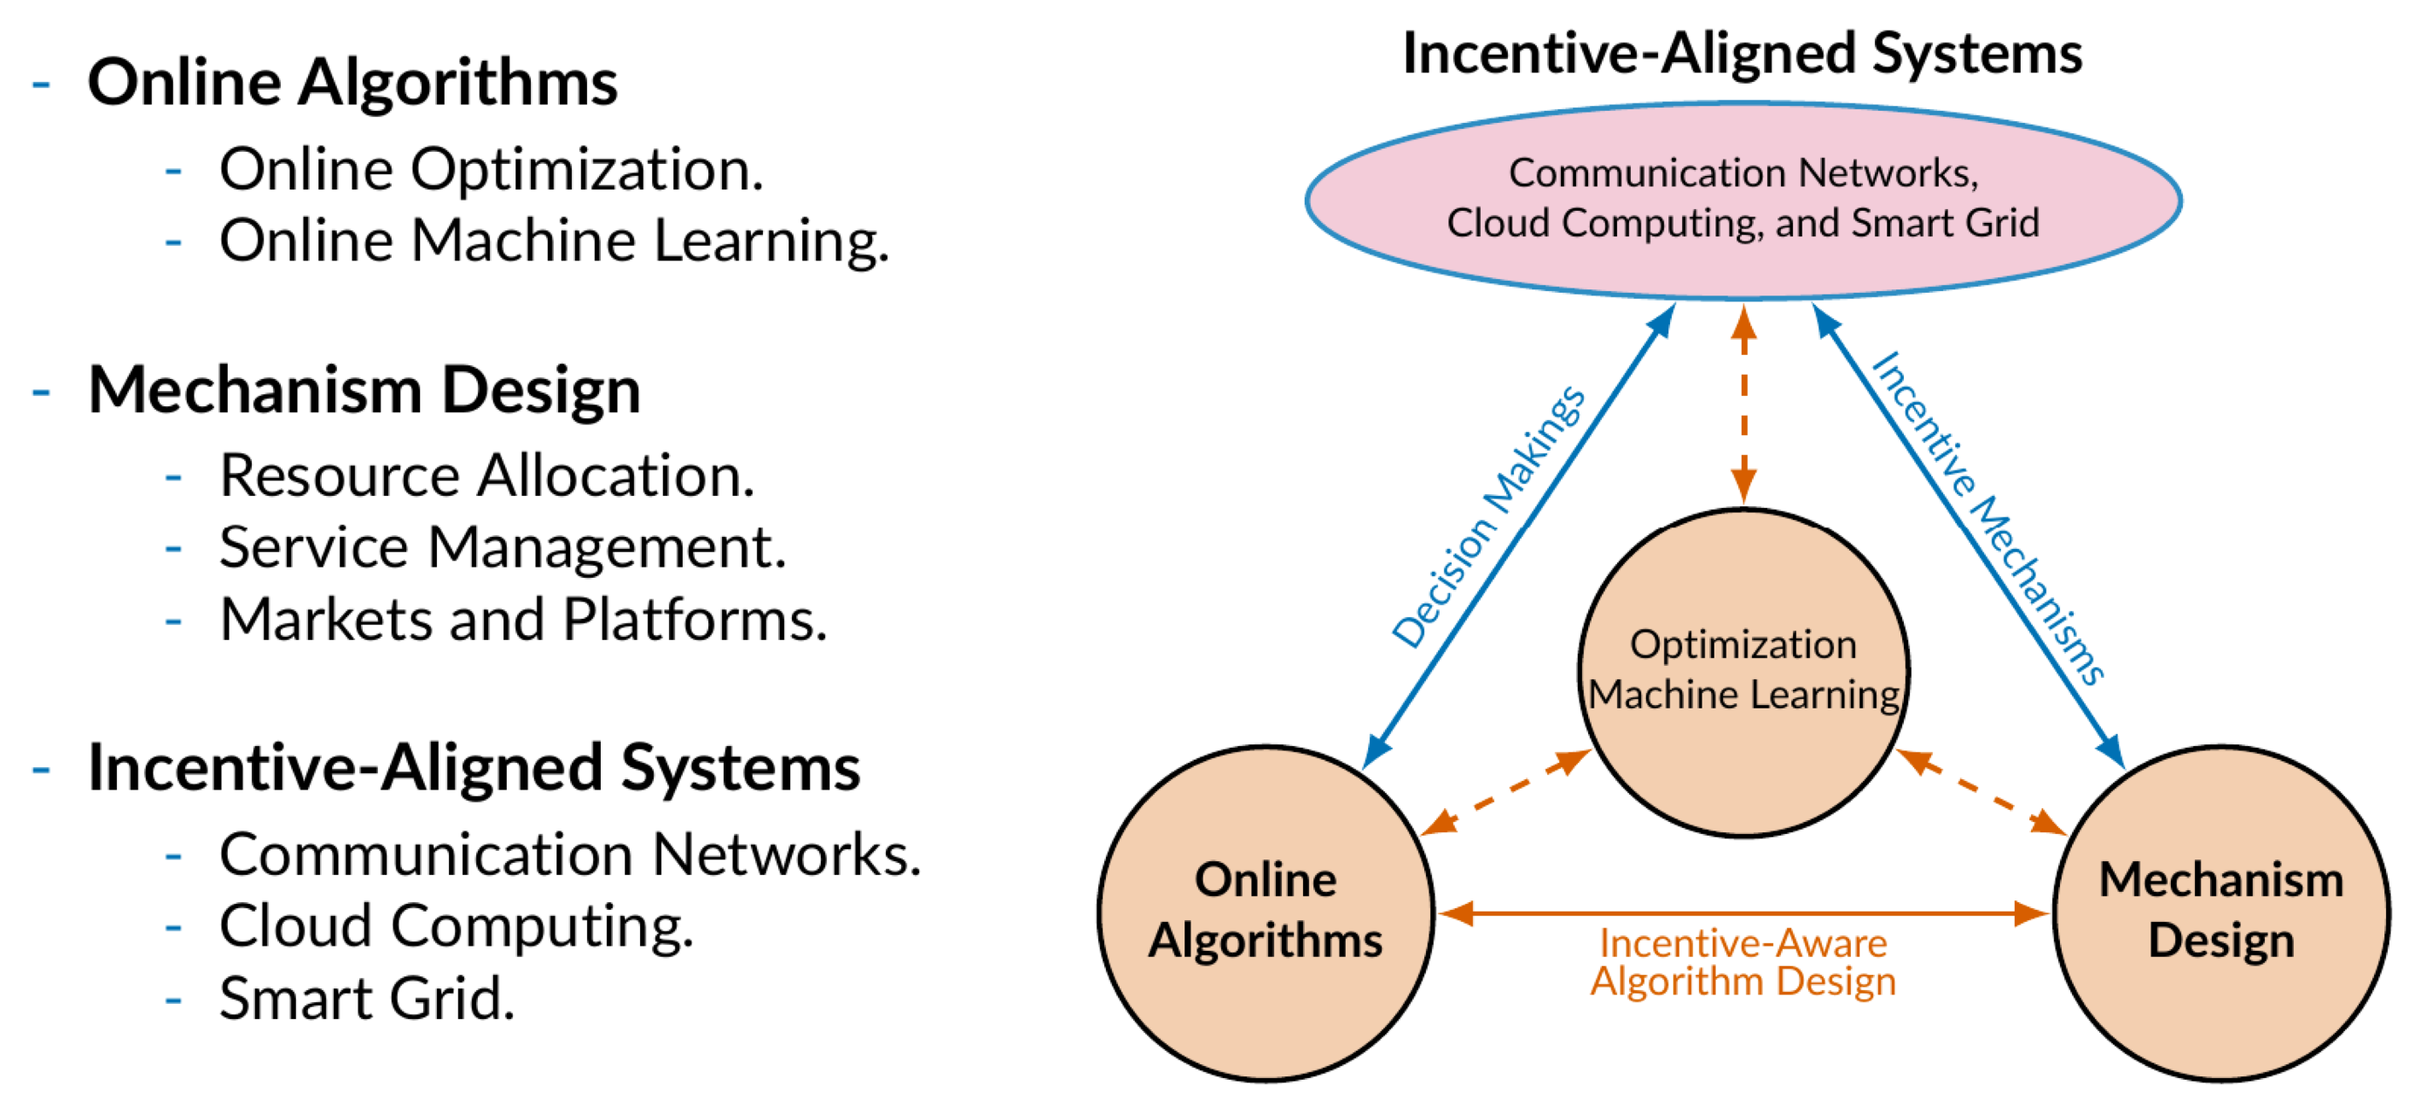
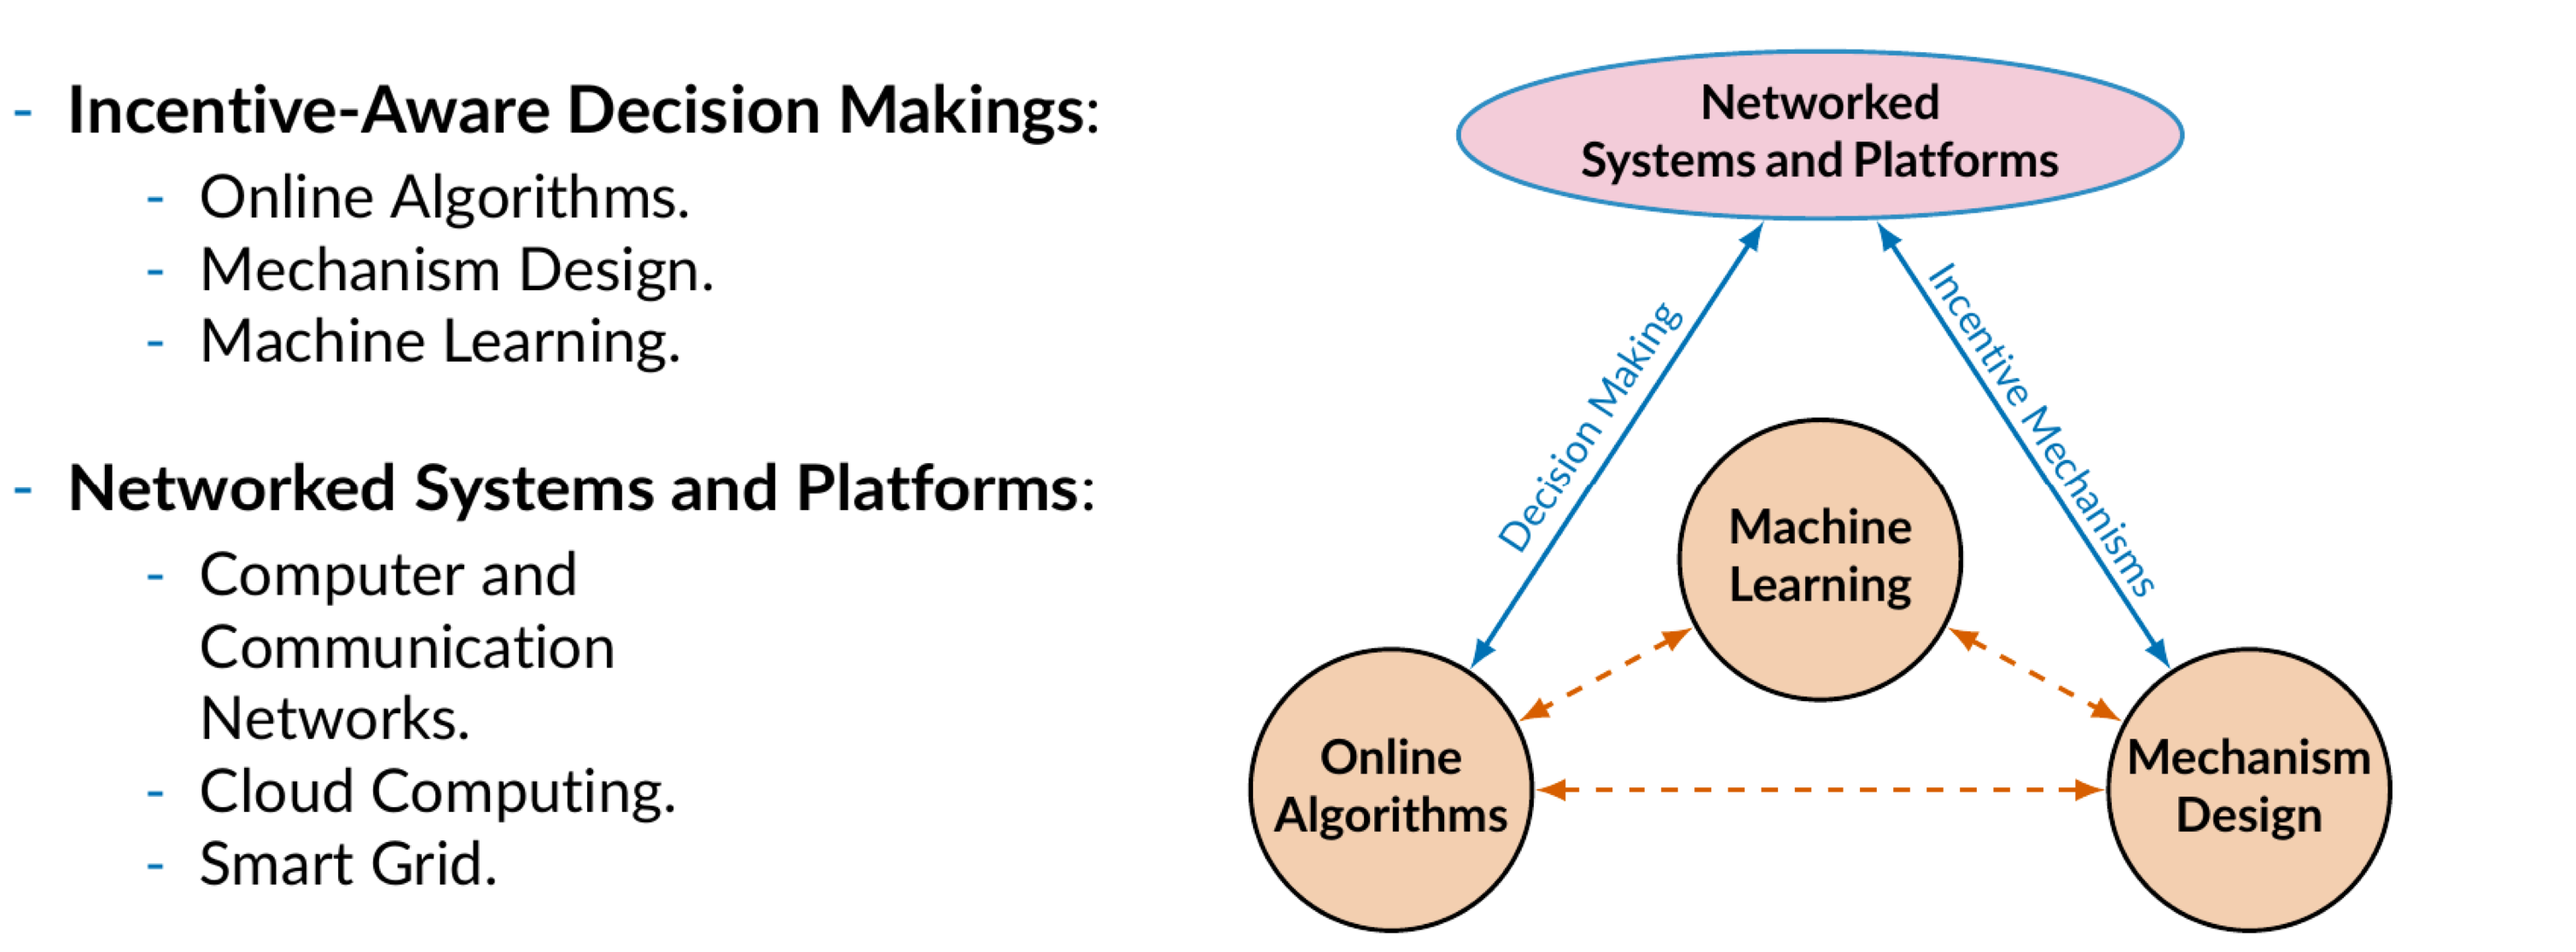
20191215

Changed region(s): [[0.4343, 0.0305, 0.9926, 1.0], [0.0, 0.0305, 0.4343, 0.9444]]

diff --git a/content/research/incentives.md b/content/research/incentives.md
@@ -1,26 +1,52 @@
 +++
-# A Demo section created with the Blank widget.
-# Any elements can be added in the body: https://sourcethemes.com/academic/docs/writing-markdown-latex/
-# Add more sections by duplicating this file and customizing to your requirements.
+# A Recent Publications section created with the Pages widget.
+# This section displays recent blog posts from `content/publication/`.
 
-widget = "blank"  # See https://sourcethemes.com/academic/docs/page-builder/
+widget = "pages"  # See https://sourcethemes.com/academic/docs/page-builder/
 headless = true  # This file represents a page section.
-active = false  # Activate this widget? true/false
-weight = 35  # Order that this section will appear.
+active = true  # Activate this widget? true/false
+weight = 10  # Order that this section will appear.
 
-title = "Incentives"
-subtitle = "Mechanism Design for Resource Allocation and Pricing"
+title = "Incentive-Aware Decision Makings"
+subtitle = "Online Algorithms, Mechanism Design and Machine Learning"
 
+
+
+[content]
+  # Page type to display. E.g. post, talk, or publication.
+  page_type = "publication"
+  
+  # Choose how much pages you would like to display (0 = all pages)
+  count = 3
+  
+  # Choose how many pages you would like to offset by
+  offset = 0
+
+  # Page order. Descending (desc) or ascending (asc) date.
+  order = "desc"
+
+  # Filter posts by a taxonomy term.
+  [content.filters]
+    tag = "Incentives"
+    category = ""
+    publication_type = ""
+    exclude_featured = false
+  
+  
 [design]
-  # Choose how many columns the section has. Valid values: 1 or 2.
-  columns = "2"
-
+  # Toggle between the various page layout types.
+  #   1 = List
+  #   2 = Compact
+  #   3 = Card
+  #   4 = Citation (publication only)
+  view = 4
+  
 [design.background]
   # Apply a background color, gradient, or image.
   #   Uncomment (by removing `#`) an option to apply it.
   #   Choose a light or dark text color by setting `text_color_light`.
   #   Any HTML color name or Hex value is valid.
-
+    
   # Background color.
   # color = "navy"
   
@@ -29,28 +55,31 @@ subtitle = "Mechanism Design for Resource Allocation and Pricing"
   # gradient_end = "SkyBlue"
   
   # Background image.
-  # image = "headers/bubbles-wide.jpg"  # Name of image in `static/img/`.
+  # image = "background.jpg"  # Name of image in `static/img/`.
   # image_darken = 0.6  # Darken the image? Range 0-1 where 0 is transparent and 1 is opaque.
-  # image_size = "cover"  #  Options are `cover` (default), `contain`, or `actual` size.
-  # image_position = "center"  # Options include `left`, `center` (default), or `right`.
-  # image_parallax = true  # Use a fun parallax-like fixed background effect? true/false
 
   # Text color (true=light or false=dark).
-  # text_color_light = true
-
-[design.spacing]
-  # Customize the section spacing. Order is top, right, bottom, left.
-  padding = ["20px", "0", "20px", "0"]
-
+  # text_color_light = true  
+  
 [advanced]
  # Custom CSS. 
  css_style = ""
  
  # CSS class.
  css_class = ""
+ 
+# {{% alert note %}} 
+# Quickly discover relevant content by [filtering publications]({{< ref "/publication/_index.md" >}}).
+# {{% /alert %}}
 +++
 
-My research features the design and operation of communication networks in the face of dynamics, ranging from changing and possibly strategic user behaviors to network connectivity and resource availability. To achieve this, my research features interdisciplinarity and uses tools from mathematics and economics such as online algorithms, algorithmic game theory/mechanism design, and optimization. 
 
+I study incentive-aware decision making based on online algorithms, mechanism design and machine learning. In particular, I focus on designing sequential decision making algorithms when there is no complete information of future. Moreover, such sequential decision making problems can be substaintially challenged if there exist multiple agents with self-interested behaviors. 
 
-**Recent Publications**: [Online Combinatorial Auctions]({{< ref "/publication/journal-article/online_combinatorial_auction_2020/index.md" >}}).
+- **Online Mechanism Design**. Mechanism design is concerned about designing a protocol that can implement a game. Online mechanism design sits at the intersection between mechanism design and online algorithm, where decisions must be made in an online fashion with incomplete future information.
+
+- **Multi-Agent Reinforcement Learning**. Reinforcement learning is concerned about making sequential decisions under uncertainty based on the theory of Markov Decision Process. For 
+
+{{< figure library="true" src="competitive_ratio.png" title="Achieveable regions of competitive ratios of the proposed online algorithm under three cases" lightbox="true" >}}
+
+**Recent Publications**:

diff --git a/content/research/slider.md b/content/research/slider.md
@@ -15,16 +15,6 @@ height = ""
 
 # Slides.
 # Duplicate an `[[item]]` block to add more slides.
-[[item]]
-  title = "**Research Summary**"
-  content = "Incentive-Aligned Systems in Networked Environments"
-  align = "center"  # Choose `center`, `left`, or `right`.
-
-  # Overlay a color or image (optional).
-  # Deactivate an option by commenting out the line, prefixing it with `#`.
-  overlay_color = "#666"  # An HTML color value.
-  overlay_img = "networks.jpg"  # Image path relative to your `static/img/` folder.
-  overlay_filter = 0.6  # Darken the image. Value in range 0-1.
 
   # Call to action button (optional).
   #   Activate the button by specifying a URL and button label below.
@@ -43,22 +33,33 @@ height = ""
 #  overlay_img = "markets.jpg"  # Image path relative to your `static/img/` folder.
 #  overlay_filter = 0.6  # Darken the image. Value in range 0-1.
 
-[[item]]
-  title = "**Online Algorithms**"
-  content = "Online Optimization and Online Machine Learning"
-  align = "center"
+# [[item]]
+#  title = "**Online Algorithms**"
+#  content = "Online Optimization and Online Machine Learning"
+#  align = "center"
 
-  overlay_color = "#555"  # An HTML color value.
-  overlay_img = "algorithms.jpg"  # Image path relative to your `static/img/` folder.
-  overlay_filter = 0.8  # Darken the image. Value in range 0-1.
+#  overlay_color = "#555"  # An HTML color value.
+#  overlay_img = "algorithms.jpg"  # Image path relative to your `static/img/` folder.
+#  overlay_filter = 0.8  # Darken the image. Value in range 0-1.
 
 [[item]]
-  title = "**Mechansim Design**"
-  content = "Markets and Platforms for Resource Allocation and Pricing"
+  title = "**Incentive-Aware Decision Makings**"
+  # content = "Online Algorithms, Mechanism Design and Machine Learning"
   align = "center"
 
   overlay_color = "#333"  # An HTML color value.
-  overlay_img = "markets.jpg"  # Image path relative to your `static/img/` folder.
-  overlay_filter = 0.6  # Darken the image. Value in range 0-1.
+  overlay_img = "algorithms.jpg"  # Image path relative to your `static/img/` folder.
+  overlay_filter = 0.8 # Darken the image. Value in range 0-1.
+
+  [[item]]
+  title = "**Networked Systems and Platforms**"
+  # content = "Communication Networks, Cloud Computing and Smart Grid"
+  align = "center"  # Choose `center`, `left`, or `right`.
+
+  # Overlay a color or image (optional).
+  # Deactivate an option by commenting out the line, prefixing it with `#`.
+  overlay_color = "#666"  # An HTML color value.
+  overlay_img = "networks.jpg"  # Image path relative to your `static/img/` folder.
+  overlay_filter = 0.7  # Darken the image. Value in range 0-1.
 
 +++

diff --git a/content/research/applications.md b/content/research/applications.md
@@ -5,10 +5,10 @@
 widget = "pages"  # See https://sourcethemes.com/academic/docs/page-builder/
 headless = true  # This file represents a page section.
 active = true  # Activate this widget? true/false
-weight = 10  # Order that this section will appear.
+weight = 20  # Order that this section will appear.
 
-title = "Application Areas"
-subtitle = "Communication Networks, Cloud Computing and Smart Grid"
+title = "Networked Systems and Platforms"
+subtitle = "Computer and Communication Networks, Cloud Computing and Smart Grid"
 
 
 
@@ -73,20 +73,14 @@ subtitle = "Communication Networks, Cloud Computing and Smart Grid"
 # {{% /alert %}}
 +++
 
-Design of incentive-aligned systems for resource allocation and scheduling in networked environments in the presence of dynamics, ranging from changing and possibly strategic user behaviors to network connectivity and resource availability. Typical examples of such systems arise in
+I develop online decision-making algorithms and incentive mechanisms for resource allocation and scheduling in networked systems and platforms, where self-interested agents may appear sequentially, interact and possibly pursue conflicting objectives in the presence of dynamics, ranging from network connectivity to resource availability. Typical examples of such systems arise in
 
-- **Smart Grid**: the power grid is undergoing a dramatic transformation...
-
-- **Cloud Computing**: placing computing-intensive tasks at a centralized cloud has been proven not only efficient in the computational point of view, but also ecconomically. 
-
-
-- **Communication Networks**: the computer and communication networks have 
-
-
+- **Computer and Communication Networks**: the computer and communication networks have 
 
 {{< figure library="true" src="network_routing.png" title="A caption" lightbox="true" >}}
 
+- **Cloud Computing**: placing computing-intensive tasks at a centralized cloud has been proven not only efficient in the computational point of view, but also ecconomically. 
 
-Communication Networks, Cloud Computing and Smart Grid
+- **Smart Grid**: the power grid is undergoing a dramatic transformation...
 
 **Recent Publications**:

diff --git a/content/authors/admin/_index.md b/content/authors/admin/_index.md
@@ -107,4 +107,4 @@ I am currently a Postdoctoral Fellow at the Dept. of Electrical & Computer Engin
 
 I received my Ph.D. degree in Electronic and Computer Engineering from [Hong Kong University of Science and Technology](https://www.ust.hk), advised by Prof. [Danny H.K. Tsang](https://eetsang.home.ece.ust.hk/). From Oct. 2015 to April 2016, I was also affiliated with the School of Engineering and Applied Science, [Harvard University](https://www.harvard.edu/), hosted by Prof. [Na (Lina) Li](https://nali.seas.harvard.edu/).
 
-My research centers around designing incentive-aligned systems for resource allocation and scheduling in the presence of self-interested agents. The main application area includes [comunication networks](/tags/networking), [cloud computing](/tags/cloud-computing) and [smart grid](/tags/smart-grid).
+I design [incentive-aware decisions](/research/#incentives) for resource allocation and scheduling in [networked systems and platforms](/research/#applications). The main application area of my research includes [comunication networks](/tags/networking), [cloud computing](/tags/cloud-computing) and [smart grid](/tags/smart-grid).

diff --git a/content/research/overview.md b/content/research/overview.md
@@ -4,10 +4,10 @@
 
 widget = "pages"  # See https://sourcethemes.com/academic/docs/page-builder/
 headless = true  # This file represents a page section.
-active = true  # Activate this widget? true/false
+active = false  # Activate this widget? true/false
 weight = 5  # Order that this section will appear.
 
-title = "Research Summary"
+title = "Research Overview"
 # subtitle = "Online Optimization and Online Machine Learning"
 
 

diff --git a/content/research/algorithms_copy.md b/content/research/algorithms_copy.md
@@ -4,7 +4,7 @@
 
 widget = "pages"  # See https://sourcethemes.com/academic/docs/page-builder/
 headless = true  # This file represents a page section.
-active = true  # Activate this widget? true/false
+active = false  # Activate this widget? true/false
 weight = 30  # Order that this section will appear.
 
 title = "Online Algorithms"
